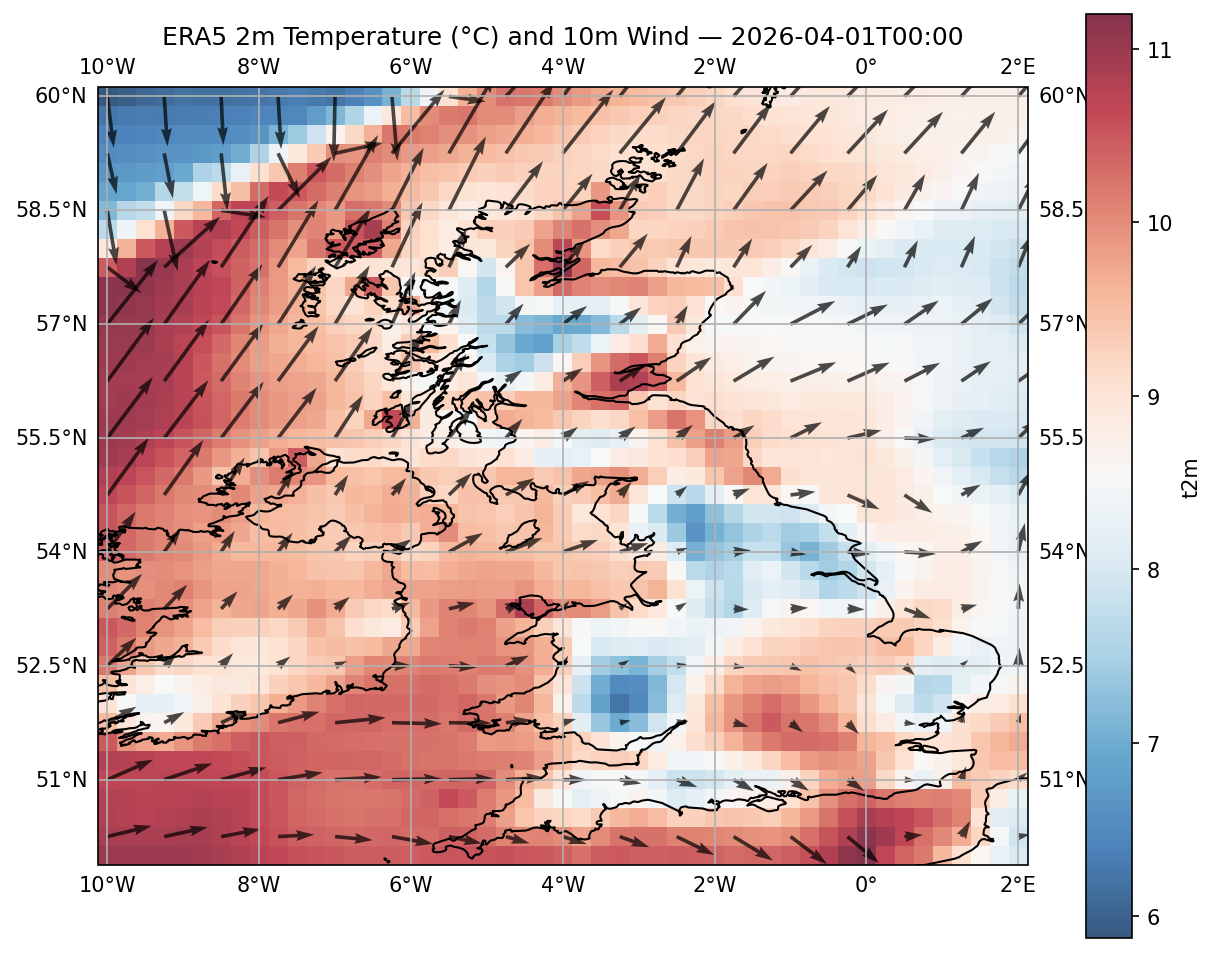
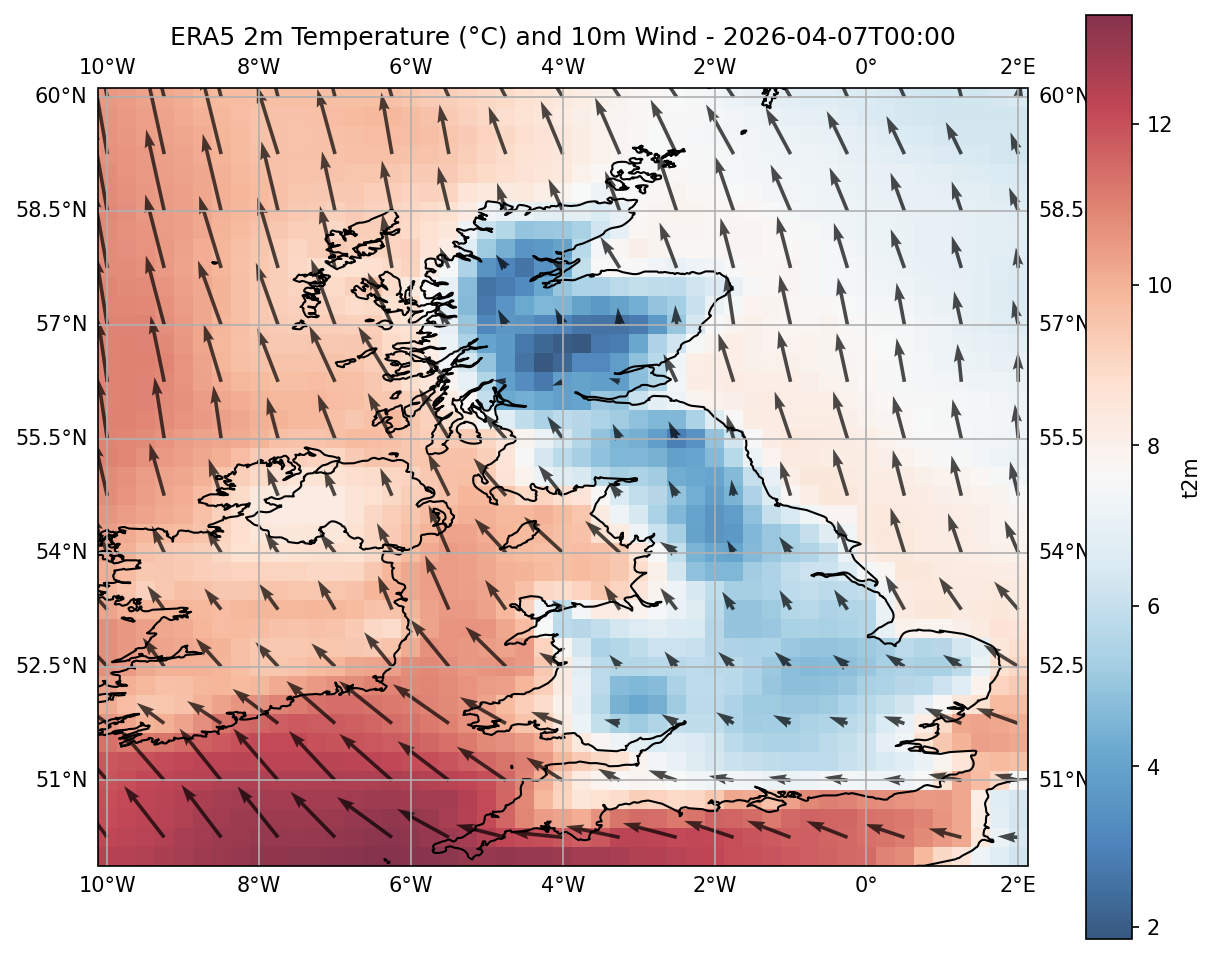
Add ERA5 wind and temp animation download

diff --git a/animate_era5.py b/animate_era5.py
@@ -1,0 +1,60 @@
+import xarray as xr
+import matplotlib.pyplot as plt
+import cartopy.crs as ccrs
+import cartopy.feature as cfeature
+import PIL.Image
+import os
+
+ds = xr.open_dataset('era5_uk_temp_wind.nc')
+
+lats = ds['latitude'].values
+lons = ds['longitude'].values
+thin = 3
+lons_thin = lons[::thin]
+lats_thin = lats[::thin]
+
+frames = []
+
+for i in range(len(ds['valid_time'])):
+    t2m = ds['t2m'].isel(valid_time=i) - 273.15
+    u10 = ds['u10'].isel(valid_time=i)
+    v10 = ds['v10'].isel(valid_time=i)
+    time_str = str(ds['valid_time'].values[i])[:16]
+
+    fig, ax = plt.subplots(figsize=(10, 8), subplot_kw={'projection': ccrs.PlateCarree()})
+
+    t2m.plot(ax=ax, transform=ccrs.PlateCarree(), cmap='RdBu_r', alpha=0.8,
+             vmin=ds['t2m'].values.min() - 273.15,
+             vmax=ds['t2m'].values.max() - 273.15)
+
+    u_thin = u10.values[::thin, ::thin]
+    v_thin = v10.values[::thin, ::thin]
+    ax.quiver(lons_thin, lats_thin, u_thin, v_thin,
+              transform=ccrs.PlateCarree(),
+              scale=150, color='black', alpha=0.7)
+
+    ax.add_feature(cfeature.COASTLINE.with_scale('10m'))
+    ax.add_feature(cfeature.BORDERS)
+    ax.gridlines(draw_labels=True)
+    ax.set_title(f'ERA5 2m Temperature (°C) and 10m Wind - {time_str}')
+
+    # Save frame to file
+    frame_path = f'frame_{i:02d}.png'
+    plt.savefig(frame_path, dpi=100, bbox_inches='tight')
+    plt.close()
+    frames.append(frame_path)
+    print(f"Frame {i+1}/{len(ds['valid_time'])} done")
+
+# Stitch frames into GIF
+images = [PIL.Image.open(f) for f in frames]
+images[0].save('era5_animation.gif',
+               save_all=True,
+               append_images=images[1:],
+               duration=1000,
+               loop=0) # loop=0 means infinite loop
+
+# Clean up frame files
+for f in frames:
+    os.remove(f)
+
+print("Animation saved as era5_animation.gif")

diff --git a/download_era5_nc.py b/download_era5_nc.py
@@ -9,9 +9,9 @@ c.retrieve(
         'variable': ['2m_temperature', '10m_u_component_of_wind', '10m_v_component_of_wind'],
         'year': '2026',
         'month': '04',
-        'day': ['01', '02', '03'],
+        'day': ['07', '08', '09', '10'],
         'time': ['00:00', '06:00', '12:00', '18:00'],
-        'area': [60, -10, 50, 2],  # North, West, South, East - roughly UK
+        'area': [60, -10, 50, 2],  # North, West, South, East boundaries of box (lat_max, lon_min, lat_min, lon_max) - roughly UK
         'format': 'netcdf',
     },
     'era5_uk_temp_wind.nc'

diff --git a/explore_era5_nc.py b/explore_era5_nc.py
@@ -39,7 +39,7 @@ ax.add_feature(cfeature.COASTLINE.with_scale('10m'))
 ax.add_feature(cfeature.BORDERS)
 ax.gridlines(draw_labels=True)
 
-ax.set_title(f'ERA5 2m Temperature (°C) and 10m Wind — {time_str}')
+ax.set_title(f'ERA5 2m Temperature (°C) and 10m Wind - {time_str}')
 
 plt.savefig('era5_temp_wind.png', dpi=150, bbox_inches='tight')
 print("Plot saved as era5_temp_wind.png")
